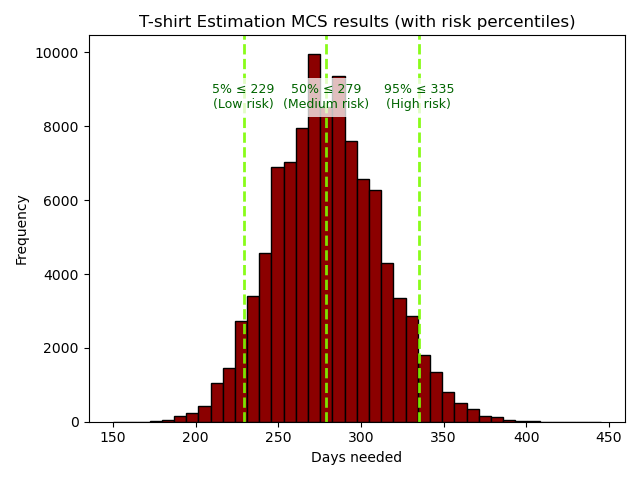
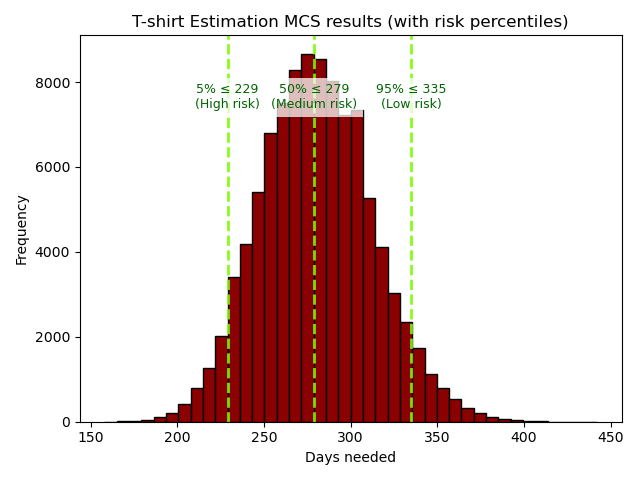
swap risk scales for tshirt

diff --git a/t-shirt-estimation.py b/t-shirt-estimation.py
@@ -38,7 +38,7 @@ def plot_with_risk(results: np.ndarray, save_path="t_shirt_estimation_results_wi
     bins = max(10, len(results) // 2500)
     fig, ax = plt.subplots()
     counts, bin_edges, _ = ax.hist(results, bins=bins, color="darkred", edgecolor="black")
-    risk_levels = {5: "Low", 50: "Medium", 95: "High"}
+    risk_levels = {5: "High", 50: "Medium", 95: "Low"}
     vals = np.percentile(results, list(risk_levels.keys()))
 
     ymax = counts.max() if counts.size else 1
